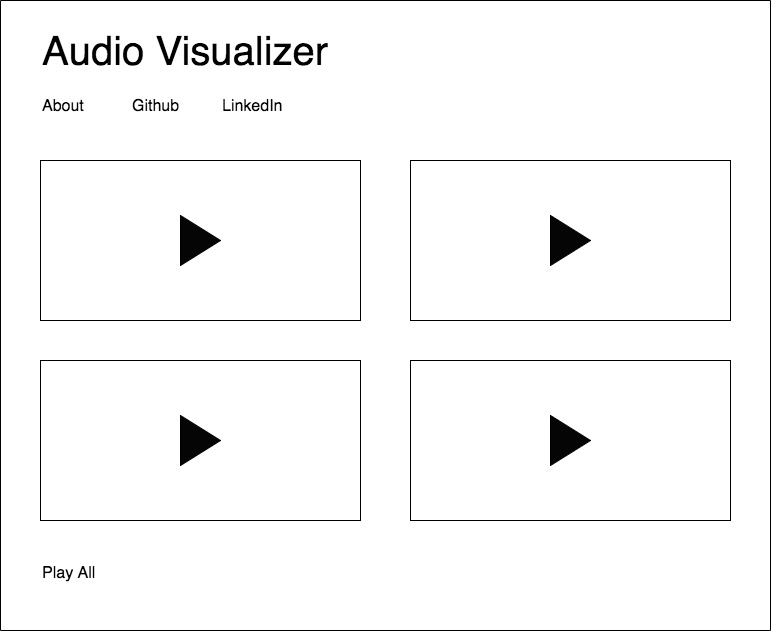
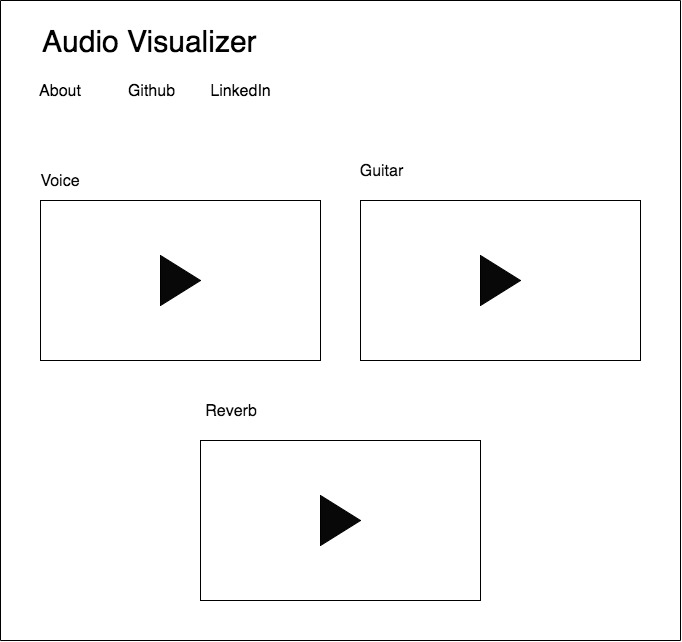
readme update

diff --git a/src/js/main.js b/src/js/main.js
@@ -1,0 +1,60 @@
+window.onload = function() {
+  
+  var file = document.getElementById("thefile");
+  var audio = document.getElementById("audio");
+  
+  // audio.src = URL.createObjectURL(files[0]);
+  audio.load();
+  audio.play();
+  var context = new AudioContext();
+  var src = context.createMediaElementSource(audio);
+  var analyser = context.createAnalyser();
+
+  var canvas = document.getElementById("canvas");
+  canvas.width = window.innerWidth;
+  canvas.height = window.innerHeight;
+  var ctx = canvas.getContext("2d");
+
+  src.connect(analyser);
+  analyser.connect(context.destination);
+
+  analyser.fftSize = 256;
+
+  var bufferLength = analyser.frequencyBinCount;
+  console.log(bufferLength);
+
+  var dataArray = new Uint8Array(bufferLength);
+
+  var WIDTH = canvas.width;
+  var HEIGHT = canvas.height;
+
+  var barWidth = (WIDTH / bufferLength) * 2.5;
+  var barHeight;
+  var x = 0;
+
+  function renderFrame() {
+    requestAnimationFrame(renderFrame);
+
+    x = 0;
+
+    analyser.getByteFrequencyData(dataArray);
+
+    ctx.fillStyle = "#000";
+    ctx.fillRect(0, 0, WIDTH, HEIGHT);
+
+    for (var i = 0; i < bufferLength; i++) {
+      barHeight = dataArray[i];
+      
+      var r = barHeight + (25 * (i/bufferLength));
+      var g = 250 * (i/bufferLength);
+      var b = 50;
+
+      ctx.fillStyle = "rgb(" + r + "," + g + "," + b + ")";
+      ctx.fillRect(x, HEIGHT - barHeight, barWidth, barHeight);
+
+      x += barWidth + 1;
+    }
+  }
+    audio.play();
+    renderFrame();
+};

diff --git a/index.html b/index.html
@@ -5,12 +5,17 @@
   <meta name="viewport" content="width=device-width, initial-scale=1.0">
   <meta http-equiv="X-UA-Compatible" content="ie=edge">
   <script src="./src/js/entry.js"></script>
+  <script src="./src/js/main.js"></script>
   <link rel="stylesheet" src="./src/scss/reset.scss">
   <link rel="stylesheet" src="./src/scss/entry.scss">
   <title>Audio Visualizer</title>
 </head>
 <body>
   <h1>Audio Visualizer</h1>
-  <main id="root"></main>
+  <div id="content">
+    <input type="file" id="thefile" accept="audio/*" />
+    <canvas id="canvas"></canvas>
+    <audio id="audio" controls></audio>
+  </div>
 </body>
 </html>

diff --git a/src/scss/entry.scss b/src/scss/entry.scss
@@ -1,0 +1,21 @@
+#thefile {
+  position: fixed;
+  top: 10px;
+  left: 10px;
+  z-index: 100;
+}
+
+#canvas {
+  position: fixed;
+  left: 0;
+  top: 0;
+  width: 100%;
+  height: 100%;
+}
+
+audio {
+  position: fixed;
+  left: 10px;
+  bottom: 10px;
+  width: calc(100% - 20px);
+}

diff --git a/src/js/entry.js b/src/js/entry.js
@@ -1,5 +1,6 @@
 document.addEventListener('DOMContentLoaded', () => {
   const root = document.getElementById('root');
+  
 
   console.log("DOM fully Loaded");
 });

diff --git a/README.md b/README.md
@@ -1,13 +1,15 @@
 ## Audio Visualizer
 
-For this project I will create an audio visualizer using Javascript, CSS, the HTML Canvas element, and the Web Audio API.
+For this project I will create an audio visualizer using Javascript, CSS, the HTML Canvas element, and the Web Audio API. The audio visualizer will be separted into three different parts of the same song.
 
 ## Funtionality and MVP
 
 With my audio visualizer, users will be able to:
 
-- Press play to start the visualization.
-- View up to four different visualizations of the same audio source. One being the classic sound bar animation.
+- Press play to start the visualizations.
+- Basic sound bar visualization
+- Pulse visualization
+- Waveform visualization
 
 In addition, this project will include:
 
@@ -16,7 +18,7 @@ In addition, this project will include:
 
 ## Wireframes
 
-The app will consist of a single page, with four canvas elements, each showing different audio visualizations from the same audio source. You will be able to click on one for the song to start playing and the visualization to begin. Once you click on another the previous one will stop and the next one will play. There will also be a button to play all simultanously. THe audio source will be a recording of a song I wrote for my band Yawn.
+The app will consist of a single page, with four canvas elements, each showing different audio visualizations from the same audio source. You will be able to click on one for the song to start playing and the visualization to begin. Once you click on another the previous one will stop and the next one will play. There will also be a button to play all simultanously. 
 
 There will be an About link, when clicking, a modal will appear with a brief explanation of the type of visualizations. There will also be a link to the github and my linkedIn.
 
